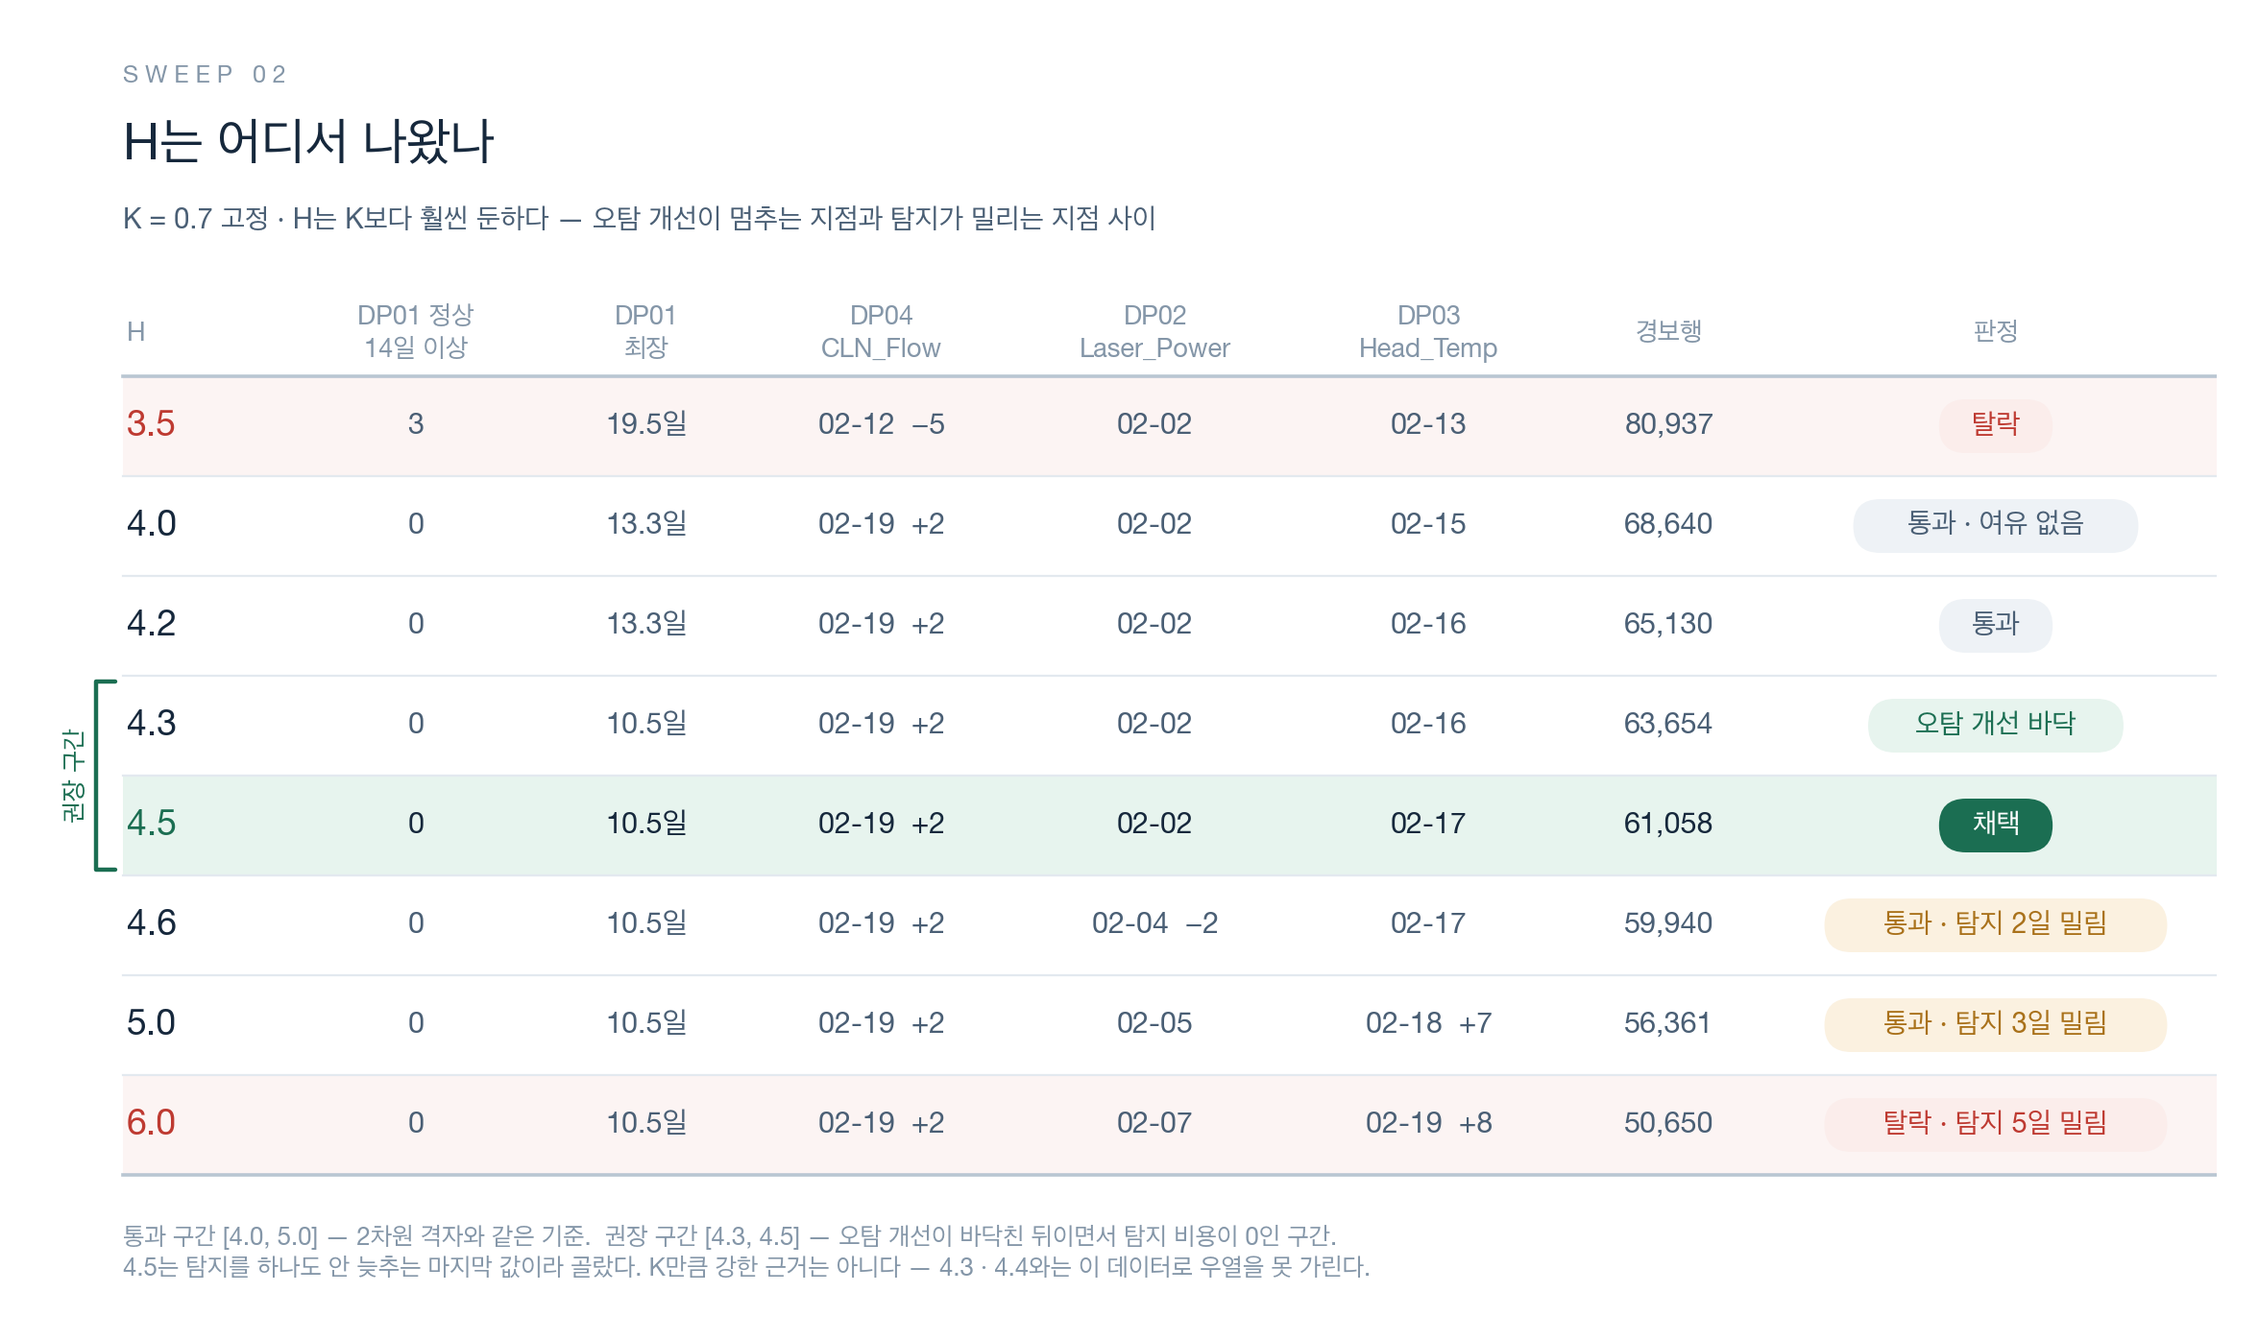
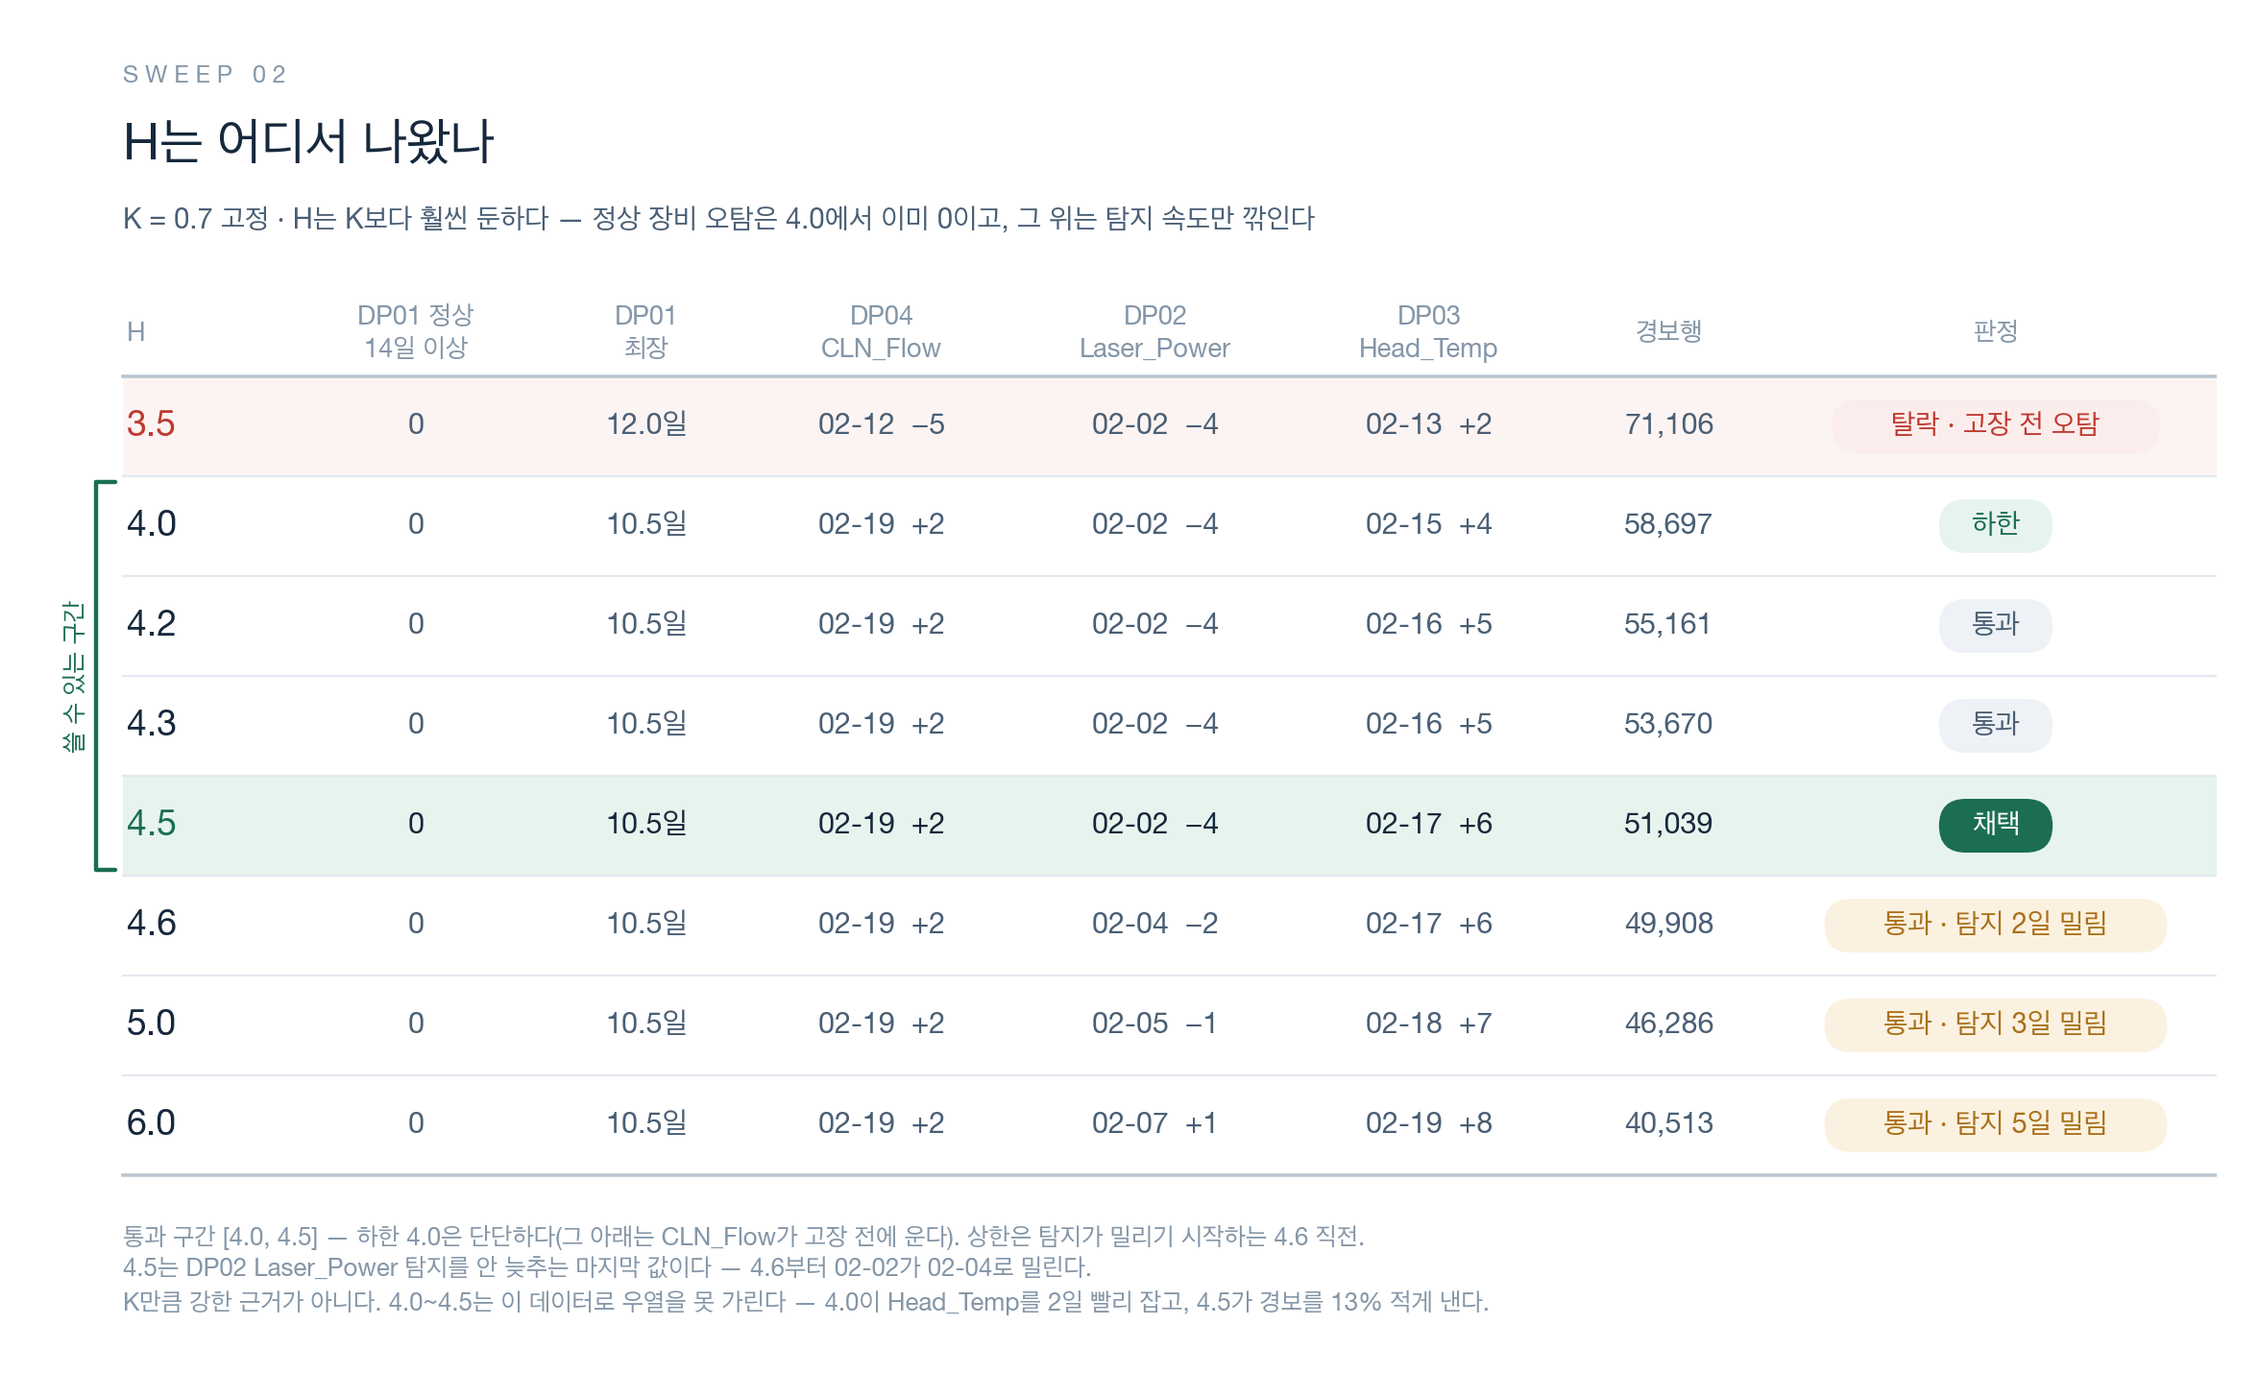
스윕을 전부 다시 재고 표를 갱신 — H=4.5의 근거 하나가 변동성 노이즈였다
변동성 경보를 뺐으니 early_warning이 바뀐다. 경보행만 고치면 되는 줄 알았는데
42칸 격자까지 다시 돌려보니 판정 근거 자체가 바뀐 곳이 있었다.

가장 중요한 것: H=4.5를 고른 근거 두 개 중 하나가 사라졌다. 이전 표는
"H=4.3에서 DP01 최장이 13.3 -> 10.5일로 떨어지고 그 뒤로 안 줄어든다"를 근거로
권장 구간 하한을 4.3으로 잡았다. 그 계단이 변동성 경보가 만든 것이었다 —
빼고 다시 재면 4.0부터 이미 10.5일이라 4.3을 하한으로 둘 이유가 없다.
남은 근거는 "4.5가 Laser_Power 탐지를 안 늦추는 마지막 값"(4.6부터 02-02가
02-04로 밀림) 하나뿐이다. 구간을 [4.3, 4.5] -> [4.0, 4.5]로 고치고, 4.0과
4.5를 이 데이터로는 못 가린다는 것을 표에 명시했다 — 4.0이 Head_Temp를 2일
빨리 잡고 4.5가 경보를 13% 적게 낸다. K와 근거 세기가 다르다는 걸 숨기지 않는다.

H=3.5도 탈락 이유가 바뀌었다. 이전엔 DP01 지속경보 3개 + 최장 19.5일이 근거였는데
이제 0개 / 12.0일이다. 탈락은 유지되지만 근거는 CLN_Flow가 고장 전에 우는 것
하나다(02-12, 고장 02-17). 고장 전 구간이 평평한 유일한 짝이라 여기서만
"고장 전이면 오탐"을 말할 수 있고, 그래서 하한 4.0은 여전히 단단하다.

교과서값 비교도 뒤집혔던 게 아니었다. K0.5/H4.0에서 DP01 44 vs DP02 39로 적어
"순서가 뒤집힌다"고 썼는데, 다시 재니 32 대 32 동률이다. 뒤집히는 게 아니라
갈리지 않는 것이다. 채택값에서 DP01만 0으로 떨어지는 건 그대로라 결론은 같다.

K는 안 흔들렸다. 쓸 수 있는 구간 [0.65, 0.80] 그대로고, 하한을 정하는 전환
(CLN_Flow가 02-12 -> 02-19로 바뀌는 지점)이 0.60과 0.65 사이인 것도 같다.

2차원 격자는 판정 기준을 명시했다. 이전 이미지는 "탐지가 늦어지지 않음"이라고만
쓰고 숫자를 안 적었는데, 18칸 통과라는 결과를 재현해보니 상한 10일이었다.
이제 캡션에 적는다. (0.70, 4.5)는 상한을 7일/10일/14일 어디로 잡아도 통과다.
"K=0.50과 0.90은 어떤 H로도 실패한다"는 문장은 뺐다 — K=0.50이 H=6.0에서
통과한다. 대신 K=0.70이 여섯 H 중 다섯에서 통과해 가장 넓다는 사실을 쓴다.

표 생성 스크립트를 docs/make_sweep_tables.py로 옮겼다. 임시 디렉터리에만 있으면
다음에 숫자가 또 바뀔 때 이미지를 손으로 다시 만들게 된다.

heatmap_data.json도 새 경보 로그로 재생성했다. build_heatmap_data.py 주석의
중복 손실 수치도 다시 쟀다(61,058행 중 93행 -> 51,039행 중 52행).

유닛 테스트 45개 통과.

diff --git a/docs/make_sweep_tables.py b/docs/make_sweep_tables.py
@@ -1,0 +1,253 @@
+"""스윕 표 — 디자인 재작업.
+
+바꾼 것:
+  세로 괘선 전부 제거(가로 헤어라인만)  ·  헤더 색 막대 제거
+  판정을 알약 칩으로  ·  숫자는 Helvetica, 한글은 Apple SD Gothic Neo로 폴백
+  통과 구간을 왼쪽 세로 괄호로 표시  ·  행 높이·여백 확대
+"""
+import matplotlib
+matplotlib.use("Agg")
+import matplotlib.pyplot as plt
+from matplotlib.patches import FancyBboxPatch, Rectangle
+
+plt.rcParams["font.family"] = ["Helvetica Neue", "Apple SD Gothic Neo"]
+plt.rcParams["axes.unicode_minus"] = False
+
+INK      = "#16283C"
+INK_SOFT = "#4A5F75"
+MUTED    = "#8496A8"
+HAIR     = "#E3E9EF"
+HAIR_STRONG = "#B9C6D2"
+RED      = "#BE3A31"
+RED_BG   = "#FBEDEB"
+GREEN    = "#1B6E52"
+GREEN_BG = "#E7F4EE"
+AMBER    = "#A9711A"
+AMBER_BG = "#FBF1E0"
+GREY_BG  = "#EEF2F6"
+
+RH   = 0.52     # 행 높이
+HDRH = 0.44
+DPI  = 200
+
+
+def tw(s, fs):
+    """글자 폭 어림(인치) — 칩 크기 잡는 용도."""
+    return sum(1.0 if ord(c) > 0x1100 else 0.53 for c in s) * fs / 72
+
+
+def chip(ax, cx, cy, text, fg, bg, fs=10.5):
+    w = tw(text, fs) + 0.30
+    h = 0.28
+    ax.add_patch(FancyBboxPatch((cx - w / 2, cy - h / 2), w, h,
+                                boxstyle="round,pad=0,rounding_size=0.14",
+                                fc=bg, ec="none", zorder=3))
+    ax.text(cx, cy, text, fontsize=fs, color=fg, ha="center", va="center",
+            fontweight="bold", zorder=4)
+
+
+def bracket(ax, x, y_top, y_bot, label, color):
+    """통과 구간을 감싸는 세로 괄호."""
+    d = 0.10
+    ax.plot([x + d, x, x, x + d], [y_top, y_top, y_bot, y_bot],
+            color=color, lw=1.6, solid_capstyle="round", zorder=3)
+    ax.text(x - 0.10, (y_top + y_bot) / 2, label, fontsize=9.5, color=color,
+            ha="center", va="center", rotation=90, fontweight="bold")
+
+
+def table(fname, eyebrow, title, sub, cols, rows, note, states,
+          window=None, fs=11.5, lead_fs=14):
+    """cols: [(제목, 폭, 정렬)]   states: 행별 'pick'|'ok'|'bad'|None
+       rows: 마지막 칸은 (텍스트, 칩색상키) 튜플이면 칩으로 그린다."""
+    LEFT = 0.42 if window else 0.0
+    W = LEFT + sum(c[1] for c in cols)
+    TOP = 1.30
+    BOT = 0.30 + 0.17 * len(note)
+    H = TOP + HDRH + RH * len(rows) + BOT
+
+    fig = plt.figure(figsize=(W + 0.9, H + 0.6), dpi=DPI)
+    ax = fig.add_axes([0.45 / (W + 0.9), 0.3 / (H + 0.6), W / (W + 0.9), H / (H + 0.6)])
+    ax.set_xlim(0, W); ax.set_ylim(0, H); ax.axis("off")
+
+    # ---- 제목 블록
+    y = H - 0.12
+    ax.text(LEFT, y, " ".join(eyebrow), fontsize=9, color=MUTED,
+            fontweight="bold", va="top")
+    ax.text(LEFT, y - 0.30, title, fontsize=19, color=INK, fontweight="bold", va="top")
+    ax.text(LEFT, y - 0.74, sub, fontsize=10.5, color=INK_SOFT, va="top")
+
+    # ---- 헤더 (색 막대 없이 라벨 + 아래 굵은 헤어라인)
+    yh = H - TOP
+    x = LEFT
+    for name, w, al in cols:
+        tx = x + 0.02 if al == "l" else x + w - 0.02 if al == "r" else x + w / 2
+        ha = {"l": "left", "r": "right", "c": "center"}[al]
+        ax.text(tx, yh - HDRH / 2, name, fontsize=9.8, color=MUTED,
+                fontweight="bold", ha=ha, va="center", linespacing=1.35)
+        x += w
+    ax.plot([LEFT, W], [yh - HDRH, yh - HDRH], color=HAIR_STRONG, lw=1.3)
+
+    # ---- 본문
+    y = yh - HDRH
+    ys = []
+    for i, r in enumerate(rows):
+        yb, yc = y - RH, y - RH / 2
+        ys.append((y, yb))
+        st = states[i]
+        if st == "pick":
+            ax.add_patch(Rectangle((LEFT, yb), W - LEFT, RH, fc=GREEN_BG, ec="none", zorder=0))
+        elif st == "bad":
+            ax.add_patch(Rectangle((LEFT, yb), W - LEFT, RH, fc="#FCF4F3", ec="none", zorder=0))
+        x = LEFT
+        for j, ((name, w, al), cell) in enumerate(zip(cols, r)):
+            if isinstance(cell, tuple):
+                # 채택 행은 배경이 이미 연한 초록이라 같은 톤 칩이 묻힌다 — 솔리드로 뒤집는다
+                fg, bg = (("white", GREEN) if st == "pick" else
+                          {"g": (GREEN, GREEN_BG), "r": (RED, RED_BG),
+                           "a": (AMBER, AMBER_BG), "n": (INK_SOFT, GREY_BG)}[cell[1]])
+                chip(ax, x + w / 2, yc, cell[0], fg, bg)
+            else:
+                if j == 0:
+                    col, fsz, fw = (GREEN if st == "pick" else
+                                    RED if st == "bad" else INK), fs + 2.5, "bold"
+                else:
+                    col, fsz, fw = (INK if st == "pick" else INK_SOFT), fs, \
+                                   ("bold" if st == "pick" else "normal")
+                tx = x + 0.02 if al == "l" else x + w - 0.02 if al == "r" else x + w / 2
+                ha = {"l": "left", "r": "right", "c": "center"}[al]
+                ax.text(tx, yc, str(cell), fontsize=fsz, color=col,
+                        fontweight=fw, ha=ha, va="center", zorder=2)
+            x += w
+        if i < len(rows) - 1:
+            ax.plot([LEFT, W], [yb, yb], color=HAIR, lw=0.8, zorder=1)
+        y = yb
+    ax.plot([LEFT, W], [y, y], color=HAIR_STRONG, lw=1.3)
+
+    if window:
+        a, b, lbl = window
+        bracket(ax, LEFT - 0.14, ys[a][0] - 0.03, ys[b][1] + 0.03, lbl, GREEN)
+
+    # ---- 각주
+    ny = y - 0.26
+    for line in note:
+        ax.text(LEFT, ny, line, fontsize=9.3, color=MUTED, va="top")
+        ny -= 0.17
+
+    fig.savefig(fname, dpi=DPI, facecolor="white", bbox_inches="tight", pad_inches=0.22)
+    plt.close(fig)
+    print("저장:", fname)
+
+
+# ================================================================ K 스윕
+table(
+    "docs/발표_표_K스윕.png",
+    "SWEEP 01", "K를 훑어 쓸 수 있는 구간을 찾는다",
+    "H = 4.5 고정 · 파이프라인을 K마다 다시 실행 · 괄호는 실제 고장 시작일 대비 며칠 뒤",
+    [("K", 0.95, "l"), ("DP01 정상\n14일 이상 경보", 1.65, "c"),
+     ("DP04 CLN_Flow\n실제 02-17", 1.70, "c"), ("DP02\nLaser_Power", 1.55, "c"),
+     ("DP03\nHead_Temp", 1.50, "c"), ("판정", 2.05, "c")],
+    [["0.50", "9", "02-12  −5", "01-25  −12", "02-08  −3", ("고장 전 오탐", "r")],
+     ["0.60", "0", "02-12  −5", "01-30  −7", "02-13  +2", ("고장 전 오탐", "r")],
+     ["0.65", "0", "02-19  +2", "02-02  −4", "02-15  +4", ("하한", "g")],
+     ["0.70", "0", "02-19  +2", "02-02  −4", "02-17  +6", ("채택", "g")],
+     ["0.80", "0", "02-19  +2", "02-05  −1", "02-22  +11", ("상한", "g")],
+     ["0.90", "0", "02-19  +2", "02-24  +18", "03-11  +28", ("탐지 지연", "r")]],
+    ["쓸 수 있는 구간 [0.65, 0.80] — 하한은 '고장 전 오탐'이, 상한은 '탐지 지연'이 정한다.",
+     "DP02·DP03는 고장 전 구간이 이미 기울어져 있어 음수가 오탐이 아니라 조기 탐지다.",
+     "'고장 전이면 오탐'을 말할 수 있는 건 그 구간이 평평한 DP04 CLN_Flow뿐이라 하한을 그것으로 정했다."],
+    states=["bad", "bad", "ok", "pick", "ok", "bad"],
+    window=(2, 4, "쓸 수 있는 구간"))
+
+# ================================================================ H 스윕
+table(
+    "docs/발표_표_H스윕.png",
+    "SWEEP 02", "H는 어디서 나왔나",
+    "K = 0.7 고정 · H는 K보다 훨씬 둔하다 — 정상 장비 오탐은 4.0에서 이미 0이고, 그 위는 탐지 속도만 깎인다",
+    [("H", 0.85, "l"), ("DP01 정상\n14일 이상", 1.35, "c"), ("DP01\n최장", 1.05, "c"),
+     ("DP04\nCLN_Flow", 1.40, "c"), ("DP02\nLaser_Power", 1.45, "c"),
+     ("DP03\nHead_Temp", 1.40, "c"), ("경보행", 1.10, "c"), ("판정", 2.30, "c")],
+    [["3.5", "0", "12.0일", "02-12  −5", "02-02  −4", "02-13  +2", "71,106", ("탈락 · 고장 전 오탐", "r")],
+     ["4.0", "0", "10.5일", "02-19  +2", "02-02  −4", "02-15  +4", "58,697", ("하한", "g")],
+     ["4.2", "0", "10.5일", "02-19  +2", "02-02  −4", "02-16  +5", "55,161", ("통과", "n")],
+     ["4.3", "0", "10.5일", "02-19  +2", "02-02  −4", "02-16  +5", "53,670", ("통과", "n")],
+     ["4.5", "0", "10.5일", "02-19  +2", "02-02  −4", "02-17  +6", "51,039", ("채택", "g")],
+     ["4.6", "0", "10.5일", "02-19  +2", "02-04  −2", "02-17  +6", "49,908", ("통과 · 탐지 2일 밀림", "a")],
+     ["5.0", "0", "10.5일", "02-19  +2", "02-05  −1", "02-18  +7", "46,286", ("통과 · 탐지 3일 밀림", "a")],
+     ["6.0", "0", "10.5일", "02-19  +2", "02-07  +1", "02-19  +8", "40,513", ("통과 · 탐지 5일 밀림", "a")]],
+    ["통과 구간 [4.0, 4.5] — 하한 4.0은 단단하다(그 아래는 CLN_Flow가 고장 전에 운다). 상한은 탐지가 밀리기 시작하는 4.6 직전.",
+     "4.5는 DP02 Laser_Power 탐지를 안 늦추는 마지막 값이다 — 4.6부터 02-02가 02-04로 밀린다.",
+     "K만큼 강한 근거가 아니다. 4.0~4.5는 이 데이터로 우열을 못 가린다 — 4.0이 Head_Temp를 2일 빨리 잡고, 4.5가 경보를 13% 적게 낸다."],
+    states=["bad", "ok", "ok", "ok", "pick", "ok", "ok", "ok"],
+    window=(1, 4, "쓸 수 있는 구간"), fs=11)
+
+
+# ================================================================ 2차원 격자
+KS = ["0.50", "0.60", "0.65", "0.70", "0.75", "0.80", "0.90"]
+HS = ["3.5", "4.0", "4.3", "4.5", "5.0", "6.0"]
+G = [["x", "x", "x", "x", "x", "O"],
+     ["x", "x", "f", "f", "O", "O"],
+     ["x", "f", "O", "O", "O", "O"],
+     ["f", "O", "O", "O", "O", "O"],
+     ["f", "O", "O", "O", "O", "d"],
+     ["O", "O", "d", "d", "d", "d"],
+     ["d", "d", "d", "d", "d", "d"]]
+FILL = {"O": "#DCEFE6", "x": "#F8DFDB", "f": "#FAEBD5", "d": "#E7ECF1"}
+FG = {"O": GREEN, "x": RED, "f": AMBER, "d": "#93A3B3"}
+LBL = {"O": "통과", "x": "정상장비 오탐", "f": "고장 전 오탐", "d": "탐지 지연"}
+
+CW, CH, GAP, LW = 1.42, 0.72, 0.055, 1.05
+W = LW + CW * len(HS)
+TOP, BOT = 1.30, 0.95
+Hh = TOP + 0.40 + CH * len(KS) + BOT
+
+fig = plt.figure(figsize=(W + 0.9, Hh + 0.6), dpi=DPI)
+ax = fig.add_axes([0.45 / (W + 0.9), 0.3 / (Hh + 0.6), W / (W + 0.9), Hh / (Hh + 0.6)])
+ax.set_xlim(0, W); ax.set_ylim(0, Hh); ax.axis("off")
+
+y = Hh - 0.12
+ax.text(0, y, "  ".join("SWEEP 03"), fontsize=9, color=MUTED, fontweight="bold", va="top")
+ax.text(0, y - 0.30, "K × H 2차원 격자", fontsize=19, color=INK, fontweight="bold", va="top")
+ax.text(0, y - 0.74,
+        "축을 하나씩만 흔들면 서로를 근거로 삼은 셈이라 42칸을 전부 다시 실행했다 — 18칸 통과 "
+        "(탐지 지연 상한 10일)",
+        fontsize=10.5, color=INK_SOFT, va="top")
+
+y0 = Hh - TOP
+for j, h in enumerate(HS):
+    ax.text(LW + CW * j + CW / 2, y0 - 0.20, f"H = {h}", fontsize=10.5,
+            color=MUTED, fontweight="bold", ha="center", va="center")
+y = y0 - 0.40
+for i, k in enumerate(KS):
+    yb = y - CH
+    dead = all(v != "O" for v in G[i])
+    ax.text(LW - 0.16, yb + CH / 2, f"K = {k}", fontsize=11,
+            color=RED if dead else INK, fontweight="bold", ha="right", va="center")
+    for j, v in enumerate(G[i]):
+        x = LW + CW * j
+        pick = (k == "0.70" and HS[j] == "4.5")
+        ax.add_patch(FancyBboxPatch((x + GAP, yb + GAP), CW - 2 * GAP, CH - 2 * GAP,
+                                    boxstyle="round,pad=0,rounding_size=0.09",
+                                    fc=FILL[v], ec="none"))
+        if pick:
+            ax.add_patch(FancyBboxPatch((x + GAP, yb + GAP), CW - 2 * GAP, CH - 2 * GAP,
+                                        boxstyle="round,pad=0,rounding_size=0.09",
+                                        fc="none", ec=GREEN, lw=2.4))
+        ax.text(x + CW / 2, yb + CH / 2, "채택" if pick else LBL[v],
+                fontsize=11 if pick else (10.5 if v == "O" else 9.3),
+                fontweight="bold" if v == "O" else "normal",
+                color=FG[v], ha="center", va="center")
+    y = yb
+
+ny = y - 0.30
+for line in [
+    "통과 영역이 대각선 띠다 — K를 올리면 통과하는 H가 내려간다. 둘 다 민감도를 깎는 손잡이라 서로 상쇄된다.",
+    "K = 0.70은 여섯 H 중 다섯에서 통과해 가장 넓다.  K = 0.50은 H = 6.0 한 칸뿐이고, K = 0.90은 어떤 H로도 통과하지 못한다.",
+    "(0.70, 4.5)는 상하좌우 이웃이 모두 통과라 경계에 걸친 값이 아니다.  탐지 지연 상한을 7일·14일로 바꿔도 이 칸은 통과다.",
+]:
+    ax.text(0, ny, line, fontsize=9.3, color=MUTED, va="top")
+    ny -= 0.19
+
+fig.savefig("docs/발표_표_KH격자.png", dpi=DPI, facecolor="white",
+            bbox_inches="tight", pad_inches=0.22)
+plt.close(fig)
+print("저장: docs/발표_표_KH격자.png")
